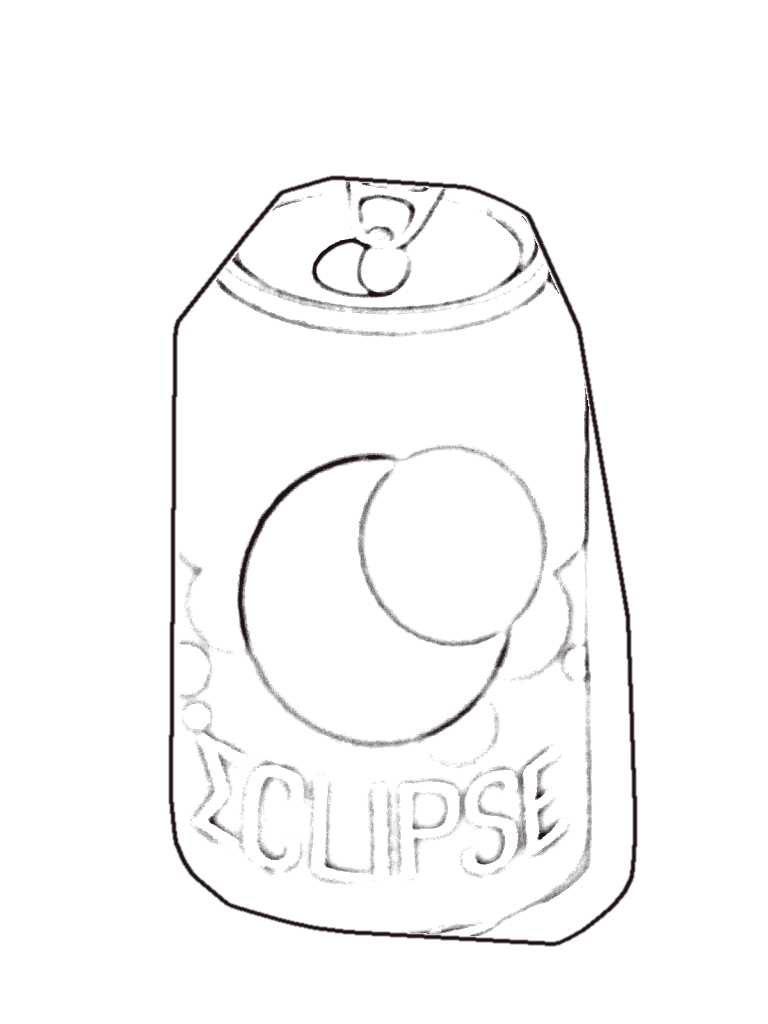
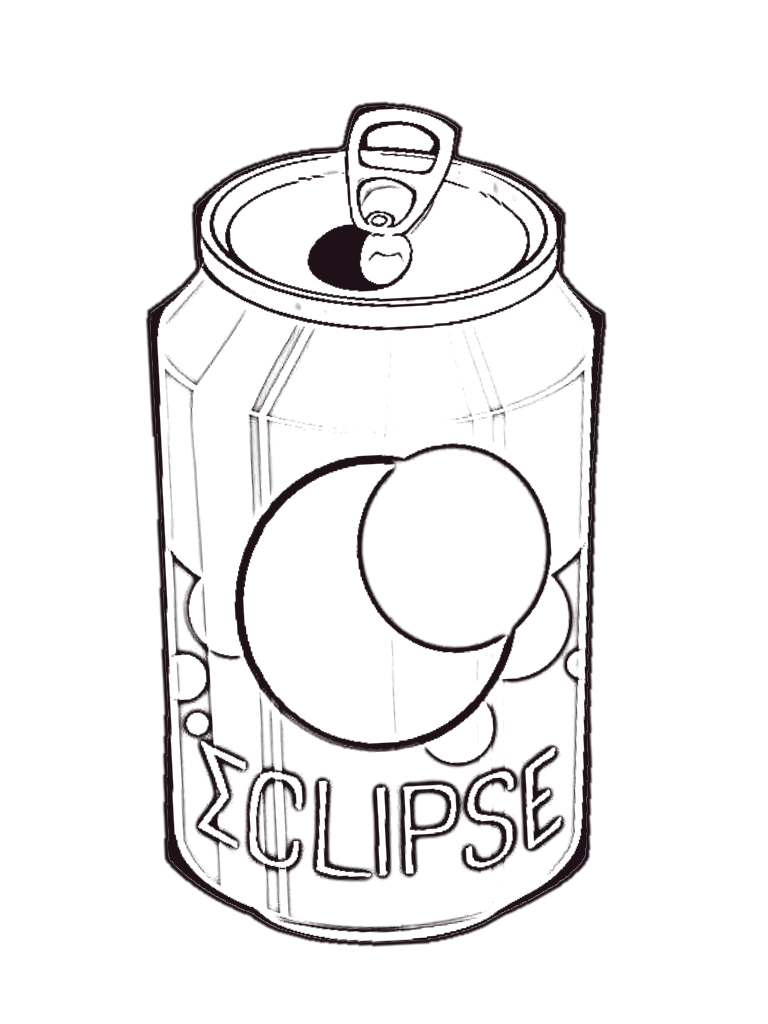
Spray Bobo: can canvas cut from the clean can art and lined up with the tracked photo; test page modes
- The can stencil was a rough cut from the soft photo. It is now cut from kc-can-art.jpg and placed onto the
  kc-can picture by matching the pictures (moon, lettering, tab line up); the back picture gets its own
  offset (can-outline.json sides) instead of a mirror.
- Keychain test pictures page: the two charms side by side (with a gap, true size to each other) or one at a
  time, Flip for the other sides, full screen.

Claude-Session: https://claude.ai/code/session_011BHdrcXFhreMm1yT1oPG6N

diff --git a/public/evade/keychain-ar/target/index.html b/public/evade/keychain-ar/target/index.html
@@ -35,6 +35,27 @@
     #bar p{flex:1;margin:0;font-size:14px}
     #bar button{background:#2a2d33;color:#fff;border:0;border-radius:8px;padding:10px 14px;font:inherit;font-weight:600;min-width:44px;min-height:44px;cursor:pointer}
     #bar #v-flip[aria-pressed="true"]{background:#2f6fed}
+    /* the two charms on their own (the pictures the trackers use): side by side, or one at a time */
+    .charms{background:var(--card);border-radius:14px;box-shadow:0 1px 3px #0002;overflow:hidden}
+    #stage{background:#111;height:min(78vh,760px);display:flex;flex-direction:column}
+    #stage .row{flex:1;min-height:0;display:flex;align-items:center;justify-content:center;gap:clamp(40px,9vw,160px);padding:24px clamp(16px,4vw,48px)}
+    #stage img{display:block;height:100%;width:auto;max-width:100%;min-width:0;object-fit:contain;cursor:pointer}
+    #stage img.can{height:74.7%}                 /* the can's picture is 59.8 mm tall to the cat's 80.1 mm: shown at true size to each other */
+    #stage[data-l="one"] img{height:100%!important}
+    #stage[data-l="one"] img:not(.on){display:none}
+    #stage[data-l="pair"] img{max-width:calc(50% - clamp(20px,4.5vw,80px))}
+    #stage:fullscreen{height:100vh}
+    #stage:fullscreen .row{padding:4vh 4vw}
+    .cbar{display:flex;align-items:center;gap:8px;flex-wrap:wrap;padding:10px 12px;background:#1b1d22;color:#eee}
+    .cbar p{flex:1;margin:0;font-size:14px;min-width:120px}
+    @media (max-width:560px){ .cbar p{order:5;flex-basis:100%} .seg{flex-basis:100%} .seg button{flex:1;justify-content:center} }
+    .cbar button{background:#2a2d33;color:#fff;border:0;border-radius:8px;padding:0 14px;font:inherit;font-weight:600;min-width:44px;min-height:44px;cursor:pointer;display:inline-flex;align-items:center;gap:6px}
+    .cbar button[aria-pressed="true"]{background:#2f6fed}
+    .cbar button:focus-visible{outline:3px solid #8ab4ff;outline-offset:2px}
+    .seg{display:inline-flex;background:#2a2d33;border-radius:10px;padding:3px;gap:3px}
+    .seg button{min-height:38px;background:none}
+    #c-prev,#c-next{display:none}
+    .charms[data-l="one"] #c-prev,.charms[data-l="one"] #c-next{display:inline-flex}
   </style>
 </head>
 <body>
@@ -45,6 +66,27 @@
     <div class="tools"><button class="flip" id="flip-all" aria-pressed="false"><svg viewBox="0 0 24 24" width="16" height="16" fill="none" stroke="currentColor" stroke-width="2" stroke-linecap="round" stroke-linejoin="round" aria-hidden="true"><path d="M12 3v18"/><path d="M8 7 3 12l5 5V7z"/><path d="M16 7l5 5-5 5V7z"/></svg>Flip all</button></div>
   </header>
   <main>
+    <h2>The two charms on their own</h2>
+    <p style="margin:-4px 0 12px;color:var(--muted);max-width:70ch">The exact pictures the AR looks for, for <a href="/evade/spray-bobo/">Spray Bobo</a> and <a href="../">Off the Chain</a>. Side by side shows both with a gap between them (true size to each other); one at a time fills the screen with one charm (tap it or use the arrows to switch). Flip shows their other sides.</p>
+    <section class="charms" id="charms" data-l="pair" aria-label="The two charms">
+      <div id="stage" data-l="pair">
+        <div class="row">
+          <img class="cat on" id="c-cat" src="../image-targets/kc-bobo.jpg" alt="Bobo cat charm">
+          <img class="can" id="c-can" src="../image-targets/kc-can.jpg" alt="Eclipse can charm">
+        </div>
+        <div class="cbar">
+          <div class="seg" role="group" aria-label="Layout">
+            <button type="button" data-l="pair" aria-pressed="true">Side by side</button>
+            <button type="button" data-l="one" aria-pressed="false">One at a time</button>
+          </div>
+          <button type="button" id="c-prev" aria-label="Previous charm">‹</button>
+          <button type="button" id="c-next" aria-label="Next charm">›</button>
+          <p id="c-text" aria-live="polite">Bobo and the can, front</p>
+          <button type="button" id="c-flip" aria-pressed="false">Flip</button>
+          <button type="button" id="c-full">Full screen</button>
+        </div>
+      </div>
+    </section>
     <h2>Separate charms on one ring</h2>
     <div class="grid" id="grid"></div>
     <h2>Original test picture</h2>
@@ -96,6 +138,33 @@
     $('v-prev').onclick = () => step(-1); $('v-next').onclick = () => step(1); $('v-close').onclick = close;
     $('v-img').onclick = () => step(1);
     addEventListener('keydown', (e) => { if ($('view').hidden) return; if (e.key === 'ArrowRight' || e.key === ' ') step(1); else if (e.key === 'ArrowLeft') step(-1); else if (e.key === 'f' || e.key === 'F') setFlip(at, !items[at].flipped); else if (e.key === 'Escape') close(); });
+    // the two charms on their own
+    {
+      const C = { l: 'pair', one: 0, back: false };
+      const SRC = { cat: ['kc-bobo.jpg', 'kc-bobo-l.jpg'], can: ['kc-can.jpg', 'kc-can-back.jpg'] };
+      const NAMES = ['Bobo', 'the can'];
+      const imgs = [$('c-cat'), $('c-can')];
+      function render() {
+        $('charms').dataset.l = C.l; $('stage').dataset.l = C.l;
+        imgs[0].src = '../image-targets/' + SRC.cat[+C.back]; imgs[1].src = '../image-targets/' + SRC.can[+C.back];
+        imgs[0].alt = 'Bobo cat charm' + (C.back ? ', other side' : ''); imgs[1].alt = 'Eclipse can charm' + (C.back ? ', other side' : '');
+        imgs.forEach((im, i) => im.classList.toggle('on', i === C.one));
+        for (const b of document.querySelectorAll('.seg button')) b.setAttribute('aria-pressed', String(b.dataset.l === C.l));
+        $('c-flip').setAttribute('aria-pressed', String(C.back));
+        const side = C.back ? 'other side' : 'front';
+        $('c-text').textContent = C.l === 'pair' ? `Bobo and the can, ${side}` : `${C.one + 1} of 2: ${NAMES[C.one]}, ${side}`;
+        $('c-full').textContent = document.fullscreenElement ? 'Exit full screen' : 'Full screen';
+      }
+      const turn = (d) => { C.one = (C.one + d + 2) % 2; render(); };
+      for (const b of document.querySelectorAll('.seg button')) b.onclick = () => { C.l = b.dataset.l; render(); };
+      $('c-prev').onclick = () => turn(-1); $('c-next').onclick = () => turn(1);
+      imgs.forEach((im, i) => { im.onclick = () => { if (C.l === 'one') turn(1); else { C.l = 'one'; C.one = i; render(); } }; });
+      $('c-flip').onclick = () => { C.back = !C.back; render(); };
+      $('c-full').onclick = () => { if (document.fullscreenElement) document.exitFullscreen().catch(() => {}); else if ($('stage').requestFullscreen) $('stage').requestFullscreen().catch(() => {}); };
+      document.addEventListener('fullscreenchange', render);
+      $('stage').addEventListener('keydown', (e) => { if (C.l !== 'one') return; if (e.key === 'ArrowRight') turn(1); else if (e.key === 'ArrowLeft') turn(-1); });
+      render();
+    }
     fetch('./tests/tests.json').then((r) => r.json()).then(({ tests }) => {
       for (const t of tests) card($('grid'), { src: `./tests/${t.slug}.jpg`, flipSrc: t.flip ? `./tests/${t.flip}.jpg` : null, title: t.title, what: t.what });
       card($('grid-orig'), { src: './keychain.jpg', title: 'Bobo with the can in front', what: 'The first test picture: both charms together, as drawn.' });

diff --git a/public/evade/spray-bobo/main.js b/public/evade/spray-bobo/main.js
@@ -46,11 +46,13 @@ const CAPS = [                                // the colours ("caps"), EVADE yel
 const NOZZLES = [{ n: 'Skinny', a: 0.6, dot: 3 }, { n: 'Medium', a: 1.4, dot: 5 }, { n: 'Fat', a: 2.8, dot: 8 }];
 const CAN_SECONDS = 24;                       // seconds of spraying in a full can
 const BRIDGE_GYRO_MS = 1500, BRIDGE_HOLD_MS = 400;
-// The charms you can paint. Each has its own image targets (both sides; the back is the mirror shape, so the
-// canvas is flipped there), stencil art cut from its front picture, and its own saved painting.
+// The charms you can paint. Each has its own image targets (both sides), stencil art lined up with its front
+// picture, and its own saved painting. The cat's back picture is the print seen through the acrylic (mirrored),
+// so the canvas is flipped there; the can's back picture shows the same can body, so the canvas is only moved
+// onto it (the offset comes with the can's outline file, from scripts/build-spray-bobo/build_stencil.py).
 const PIECES = {
   bobo: { k: 'bobo', name: 'Bobo', title: 'MY BOBO', art: 'cat', print: 'kc-bobo.jpg', targets: ['kc-bobo', 'kc-bobo-l'], flip: { 'kc-bobo-l': -1 }, mirrorPair: true, key: 'current', found: 'Found Bobo! Tap the spray can', back: 'Your Bobo is back', line: 'Sprayed on my EVADE keychain' },
-  can: { k: 'can', name: 'the can', title: 'MY CAN', art: 'can', print: 'kc-can.jpg', targets: ['kc-can', 'kc-can-back'], flip: { 'kc-can-back': -1 }, mirrorPair: false, key: 'can', found: 'Found the can! Tap the spray can', back: 'Your can is back', line: 'Sprayed on my EVADE keychain' },
+  can: { k: 'can', name: 'the can', title: 'MY CAN', art: 'can', print: 'kc-can.jpg', targets: ['kc-can', 'kc-can-back'], flip: {}, mirrorPair: false, key: 'can', found: 'Found the can! Tap the spray can', back: 'Your can is back', line: 'Sprayed on my EVADE keychain' },
 };
 const PIECE_OF = {}; for (const P of Object.values(PIECES)) for (const n of P.targets) PIECE_OF[n] = P.k;
 
@@ -250,6 +252,7 @@ function buildScene(xr, [layout, lumImg, , arts]) {
 function buildPiece(P, L, [maskImg, linesImg, outline]) {
   const W = P.W = L.widthM, H = P.H = L.heightM;
   const F = P.F = new THREE.Group(); F.visible = false; A.add(F);
+  P.xf = outline.sides || {};
   const paint = P.paint = makePaint(); paint.init(maskImg, linesImg);
   P.centre = maskCentre(paint.maskSmall);                  // the middle of the stencil (uv, y down): the canvas spreads from here
   // the canvas on the charm. It spreads out from the middle of the charm with a ragged wet edge in EVADE
@@ -594,8 +597,12 @@ function updatePose(now) {
   if (st === 'none') pose.snap = true;
   pose.state = st; pose.valid = st !== 'none';
   A.visible = pose.valid;
-  const flip = (pose.last && cp.flip[pose.last.side]) || 1;
-  if (F.scale.x !== flip) { F.scale.x = flip; pose.snap = true; }
+  // the canvas on the side in view: flipped (the cat's back) and/or moved onto that picture (the can's back)
+  const sn = pose.last ? pose.last.side : null;
+  if (F.userData.side !== sn) {
+    F.userData.side = sn; const flip = (sn && cp.flip[sn]) || 1, xf = (sn && cp.xf[sn]) || { x: 0, y: 0, rz: 0, s: 1 };
+    F.position.set(xf.x, xf.y, 0); F.rotation.z = xf.rz; F.scale.set(flip * xf.s, xf.s, 1); pose.snap = true;
+  }
 }
 // Stick to the print: follow real movement at once, only smooth the sub-millimetre jitter of a charm held still
 function follow(p, q, s, raw = false) {
@@ -639,7 +646,7 @@ function dripDown() {
   if (!gravity.up) return { x: 0, y: 1, k: 1 };
   _iq.copy(A.quaternion).invert(); _dn.copy(gravity.up).negate().applyQuaternion(camera.quaternion).applyQuaternion(_iq);   // phone -> world -> charm
   const k = Math.hypot(_dn.x, _dn.y); if (k < 0.15) return { x: 0, y: 0, k: 0 };
-  return { x: _dn.x / k * F.scale.x, y: -_dn.y / k, k };
+  return { x: _dn.x / k * Math.sign(F.scale.x), y: -_dn.y / k, k };
 }
 
 // ---------------------------------------------------------------- modes and UI

diff --git a/scripts/build-spray-bobo/build_stencil.py b/scripts/build-spray-bobo/build_stencil.py
@@ -51,31 +51,81 @@ ys, xs = np.nonzero(mask > 127)
 print('mask bbox (uv)', xs.min() / W, ys.min() / H, xs.max() / W, ys.max() / H, 'fill', (mask > 127).mean())
 
 # ---------------------------------------------------------------- the Eclipse can charm (kc-can, Dapo 2026-11-13)
-# Cut from the kc-can image target (a photo of the real charm, 1200x1600, same 3:4). The stencil is the
-# printed can (its blue, red and white), smoothed to its convex outline; the acrylic rim stays clear.
-#   art/can-mask.png, art/can-lines.png, art/can-outline.json (as above)
-SRC = os.path.join(ROOT, 'public/evade/keychain-ar/image-targets/kc-can.jpg')
-im = cv2.resize(cv2.imread(SRC), (W, H), interpolation=cv2.INTER_AREA)
-hsv = cv2.cvtColor(im, cv2.COLOR_BGR2HSV)
-s, v = hsv[..., 1].astype(np.float32) / 255, hsv[..., 2].astype(np.float32) / 255
-bg = (v > 0.8) & (s < 0.08)                                   # the grey-white table behind the charm
-pr = (((v > 0.47) | (s > 0.3)) & ~bg).astype(np.uint8) * 255  # the print: light or strongly coloured (the rim is dark and grey)
-pr = cv2.morphologyEx(pr, cv2.MORPH_OPEN, cv2.getStructuringElement(cv2.MORPH_ELLIPSE, (15, 15)))
-cs, _ = cv2.findContours(pr, cv2.RETR_EXTERNAL, cv2.CHAIN_APPROX_NONE)
-hull = cv2.convexHull(np.vstack([c for c in cs if cv2.contourArea(c) > 3000]))
-mask = np.zeros((H, W), np.uint8); cv2.fillPoly(mask, [hull], 255)
-mask = cv2.erode(mask, cv2.getStructuringElement(cv2.MORPH_ELLIPSE, (9, 9)))
+# The tracked picture kc-can is a photo of the real charm (soft, dark acrylic rim), so the stencil is cut from
+# the clean flat can art (kc-can-art.jpg) and placed onto the photo: first by the printed can's outline, then
+# refined by matching the pictures themselves (normalised correlation; the moon, lettering and tab line up).
+# The back picture (kc-can-back, the QR side) shows the same can body (lid, tab, lettering) with a different
+# middle, so it is matched the same way without the middle; its offset from the front goes into
+# can-outline.json ("sides") and the page moves the canvas by it when the back is in view.
+#   art/can-mask.png, art/can-lines.png, art/can-outline.json (as above, plus "sides")
+from scipy.optimize import minimize
+TD = os.path.join(ROOT, 'public/evade/keychain-ar/image-targets')
+art = cv2.imread(os.path.join(TD, 'kc-can-art.jpg'))
+
+def fillbig(m, k):
+    m = cv2.morphologyEx(m, cv2.MORPH_CLOSE, cv2.getStructuringElement(cv2.MORPH_ELLIPSE, (k, k)))
+    ff = m.copy(); mm = np.zeros((m.shape[0] + 2, m.shape[1] + 2), np.uint8); cv2.floodFill(ff, mm, (0, 0), 255); m = m | cv2.bitwise_not(ff)
+    n, lab, st, _ = cv2.connectedComponentsWithStats(m); big = 1 + np.argmax(st[1:, cv2.CC_STAT_AREA]); return (lab == big).astype(np.uint8) * 255
+
+def sim(p):   # scale, rotation, tx, ty -> 2x3
+    sc, r, tx, ty = p; c, sn = np.cos(r) * sc, np.sin(r) * sc; return np.float32([[c, -sn, tx], [sn, c, ty]])
+
+hsv = cv2.cvtColor(art, cv2.COLOR_BGR2HSV); s_, v_ = hsv[..., 1] / 255., hsv[..., 2] / 255.
+art_print = fillbig(cv2.morphologyEx((((s_ > 0.18) | (v_ < 0.55)).astype(np.uint8) * 255), cv2.MORPH_OPEN, np.ones((3, 3), np.uint8)), 11)
+art_g = cv2.cvtColor(art, cv2.COLOR_BGR2GRAY).astype(np.float32)
+
+def fit(name, back):
+    ph = cv2.imread(os.path.join(TD, name)); hs = cv2.cvtColor(ph, cv2.COLOR_BGR2HSV); s2, v2 = hs[..., 1] / 255., hs[..., 2] / 255.
+    pm = (s2 > 0.25) if back else ((((v2 > 0.47) | (s2 > 0.3)) & ~((v2 > 0.8) & (s2 < 0.08))))
+    pm = fillbig(cv2.morphologyEx(pm.astype(np.uint8) * 255, cv2.MORPH_OPEN, cv2.getStructuringElement(cv2.MORPH_ELLIPSE, (9, 9))), 31)
+    # 1) the printed can's outline (IoU), from the bounding boxes
+    k = 0.25; pk = cv2.resize(pm, None, fx=k, fy=k) > 127; h, w = pk.shape
+    xa, ya, wa, ha = cv2.boundingRect(art_print); xp, yp, wp, hp = cv2.boundingRect(pm); s0 = wp / wa
+    p0 = np.array([s0, 0, xp - xa * s0, yp + hp - (ya + ha) * s0])
+    def iou(p): X = cv2.warpAffine(art_print, sim(p) * k, (w, h)) > 127; return -(X & pk).sum() / max((X | pk).sum(), 1)
+    p1 = minimize(iou, p0, method='Nelder-Mead', options={'maxiter': 800, 'initial_simplex': [p0, p0 * [1.03, 1, 1, 1], p0 + [0, 0.03, 0, 0], p0 + [0, 0, 10, 0], p0 + [0, 0, 0, 10]]}).x
+    outline_iou = -iou(p1)
+    # 2) the pictures themselves (normalised correlation inside the can; on the back, not the middle circle)
+    k = 0.3; g2 = cv2.GaussianBlur(cv2.resize(cv2.cvtColor(ph, cv2.COLOR_BGR2GRAY), None, fx=k, fy=k), (0, 0), 1.5).astype(np.float32)
+    sel = cv2.resize(pm, (g2.shape[1], g2.shape[0])) > 127; H0, W0 = sel.shape
+    if back: yy, xx = np.mgrid[:H0, :W0]; sel &= ~((xx - W0 * 0.53) ** 2 + (yy - H0 * 0.565) ** 2 < (W0 * 0.2) ** 2)
+    def ncc(p):
+        wa_ = cv2.GaussianBlur(cv2.warpAffine(art_g, sim(p) * k, (W0, H0), borderValue=255), (0, 0), 1.5)
+        a = wa_[sel] - wa_[sel].mean(); b = g2[sel] - g2[sel].mean(); return -(a * b).sum() / np.sqrt((a * a).sum() * (b * b).sum())
+    best = min((p1 * [ds, 1, 1, 1] + [0, 0, dx, dy] for ds in (0.94, 1, 1.06) for dx in (-30, 0, 30) for dy in (-30, 0, 30)), key=ncc)
+    p2 = minimize(ncc, best, method='Nelder-Mead', options={'maxiter': 1500, 'initial_simplex': [best, best * [1.02, 1, 1, 1], best + [0, 0.02, 0, 0], best + [0, 0, 6, 0], best + [0, 0, 0, 6]]}).x
+    print(name, 'outline IoU', round(outline_iou, 3), 'picture match', round(-ncc(p2), 3), p2.round(4), 'outline fit', p1.round(4))
+    # the back's middle and tab are different drawings, which pull the picture match off; its can body (the
+    # printed outline) is what gets painted, so the back uses the outline fit
+    return sim(p1 if back else p2), ph.shape[1], ph.shape[0]
+
+Mf, fw, fh = fit('kc-can.jpg', False)
+Mb, bw, bh = fit('kc-can-back.jpg', True)
+# the stencil, from the clean art, placed on the kc-can picture at the paint texture's size
+toTex = np.float32([[W / fw, 0, 0], [0, H / fh, 0], [0, 0, 1]])
+Mt = (toTex @ np.vstack([Mf, [0, 0, 1]]))[:2]
+mask = cv2.warpAffine(cv2.erode(art_print, np.ones((3, 3), np.uint8)), Mt, (W, H), flags=cv2.INTER_LINEAR)
 mask = cv2.GaussianBlur(mask, (3, 3), 0)
 cv2.imwrite(os.path.join(OUT, 'can-mask.png'), np.dstack([np.full_like(mask, 255)] * 3 + [mask]))
-g = cv2.cvtColor(im, cv2.COLOR_BGR2GRAY).astype(np.float32)
-local = cv2.GaussianBlur(g, (0, 0), 5)
-dark = np.clip((local - g - 5) / 25, 0, 1) * (cv2.erode(mask, np.ones((9, 9), np.uint8)) > 0)
-a = (np.clip(dark * 1.6, 0, 1) * 255).astype(np.uint8)
+local = cv2.GaussianBlur(art_g, (0, 0), 3)
+dark = np.maximum(np.clip((local - art_g - 6) / 30, 0, 1), np.clip((0.3 - v_) / 0.15, 0, 1)) * (cv2.erode(art_print, np.ones((5, 5), np.uint8)) > 0)
+a = cv2.warpAffine((np.clip(dark * 1.8, 0, 1) * 255).astype(np.uint8), Mt, (W, H), flags=cv2.INTER_LINEAR)
 edge = cv2.morphologyEx(mask, cv2.MORPH_GRADIENT, cv2.getStructuringElement(cv2.MORPH_ELLIPSE, (5, 5)))
 lines = np.zeros((H, W, 4), np.uint8); lines[..., 0:3] = (24, 18, 30); lines[..., 3] = np.maximum(a, edge)
 cv2.imwrite(os.path.join(OUT, 'can-lines.png'), lines)
-c = cv2.approxPolyDP(hull, 1.2, True)[:, 0, :]
-json.dump({'note': 'Spray Bobo can die-cut outline, uv of the kc-can picture (x right, y down)', 'points': [[round(x / W, 5), round(y / H, 5)] for x, y in c]},
-          open(os.path.join(OUT, 'can-outline.json'), 'w'))
+cs, _ = cv2.findContours((mask > 127).astype(np.uint8), cv2.RETR_EXTERNAL, cv2.CHAIN_APPROX_NONE)
+c = cv2.approxPolyDP(max(cs, key=cv2.contourArea), 1.2, True)[:, 0, :]
+# the back: where a point of the front picture sits on the back picture, in metres from each picture's middle
+# (x right, y up). Both pictures are 0.04485 m wide (layout.json).
+WM = 0.04485
+def f2m(x, y, pw, phh): return np.array([(x - pw / 2) * WM / pw, (phh / 2 - y) * WM / pw])
+Tb = np.vstack([Mb, [0, 0, 1]]) @ np.linalg.inv(np.vstack([Mf, [0, 0, 1]]))     # front px -> back px
+def front_m_to_back_m(q):
+    x, y = q[0] * fw / WM + fw / 2, fh / 2 - q[1] * fw / WM
+    X = Tb @ [x, y, 1]; return f2m(X[0], X[1], bw, bh)
+o = front_m_to_back_m([0, 0]); ex = front_m_to_back_m([0.01, 0]) - o
+sides = {'kc-can-back': {'x': round(float(o[0]), 6), 'y': round(float(o[1]), 6), 'rz': round(float(np.arctan2(ex[1], ex[0])), 5), 's': round(float(np.hypot(*ex) / 0.01), 5)}}
+json.dump({'note': 'Spray Bobo can die-cut outline, uv of the kc-can picture (x right, y down); sides: where the canvas sits on the other pictures (metres from the middle, y up; rz radians; s scale)',
+           'points': [[round(x / W, 5), round(y / H, 5)] for x, y in c], 'sides': sides}, open(os.path.join(OUT, 'can-outline.json'), 'w'))
 ys, xs = np.nonzero(mask > 127)
-print('can outline points', len(c), 'bbox (uv)', xs.min() / W, ys.min() / H, xs.max() / W, ys.max() / H, 'fill', (mask > 127).mean())
+print('can outline points', len(c), 'bbox (uv)', xs.min() / W, ys.min() / H, xs.max() / W, ys.max() / H, 'sides', sides)

diff --git a/public/evade/spray-bobo/README.md b/public/evade/spray-bobo/README.md
@@ -14,11 +14,13 @@ your Bobo straight back.
 - `art/` — written by `scripts/build-spray-bobo/build_stencil.py` from the kc-bobo image target itself
   (thresholds and morphology only; no generative tool touches EVADE art):
   `cat-mask.png` (the stencil: paint only shows inside the cat), `cat-lines.png` (the outline),
-  `cat-outline.json` (the sticker's cut line); `can-*` the same for the Eclipse can, cut from the kc-can
-  photo target (the printed can, smoothed to its outline; the acrylic rim stays clear).
+  `cat-outline.json` (the sticker's cut line); `can-*` the same for the Eclipse can. The can's tracked
+  picture is a soft photo, so its stencil is cut from the clean flat art (kc-can-art.jpg) and placed onto the
+  photo by matching the two pictures (moon, lettering and tab line up). The back picture (QR side) shows the
+  same can body, so the canvas is moved onto it by the offset stored in `can-outline.json` ("sides").
 - Engine and image targets are shared with Off the Chain: `/evade/keychain-ar/vendor/xr/` (open-source 8th
   Wall, MIT) and `/evade/keychain-ar/image-targets/kc-bobo*.json` (both sides of the cat charm) and `kc-can.json`,
-  `kc-can-back.json` (both sides of the can charm; the canvas is mirrored on the back, like the cat).
+  `kc-can-back.json` (both sides of the can charm).
 - `PIECES` in `main.js` lists the charms. Whichever is in view becomes the current one (`pickPiece`); while
   painting it stays locked to the charm being painted.
 
@@ -84,3 +86,6 @@ charm is found and painted from a photo of kc-can; can fly-in, canvas spread, ca
 gestures work. Android's "remove animations" setting no longer hides the spray.
 **The new parts are not yet tried on a phone or on the real charms.** Unknowns until then: the gyro bridge, acrylic glare,
 how steep an angle still tracks, and whether shaking to refill feels right.
+
+Test pictures: `/evade/keychain-ar/target/` has both charms' tracked pictures side by side (with a gap, true
+size to each other) or one at a time, with Flip for the other sides and full screen.
